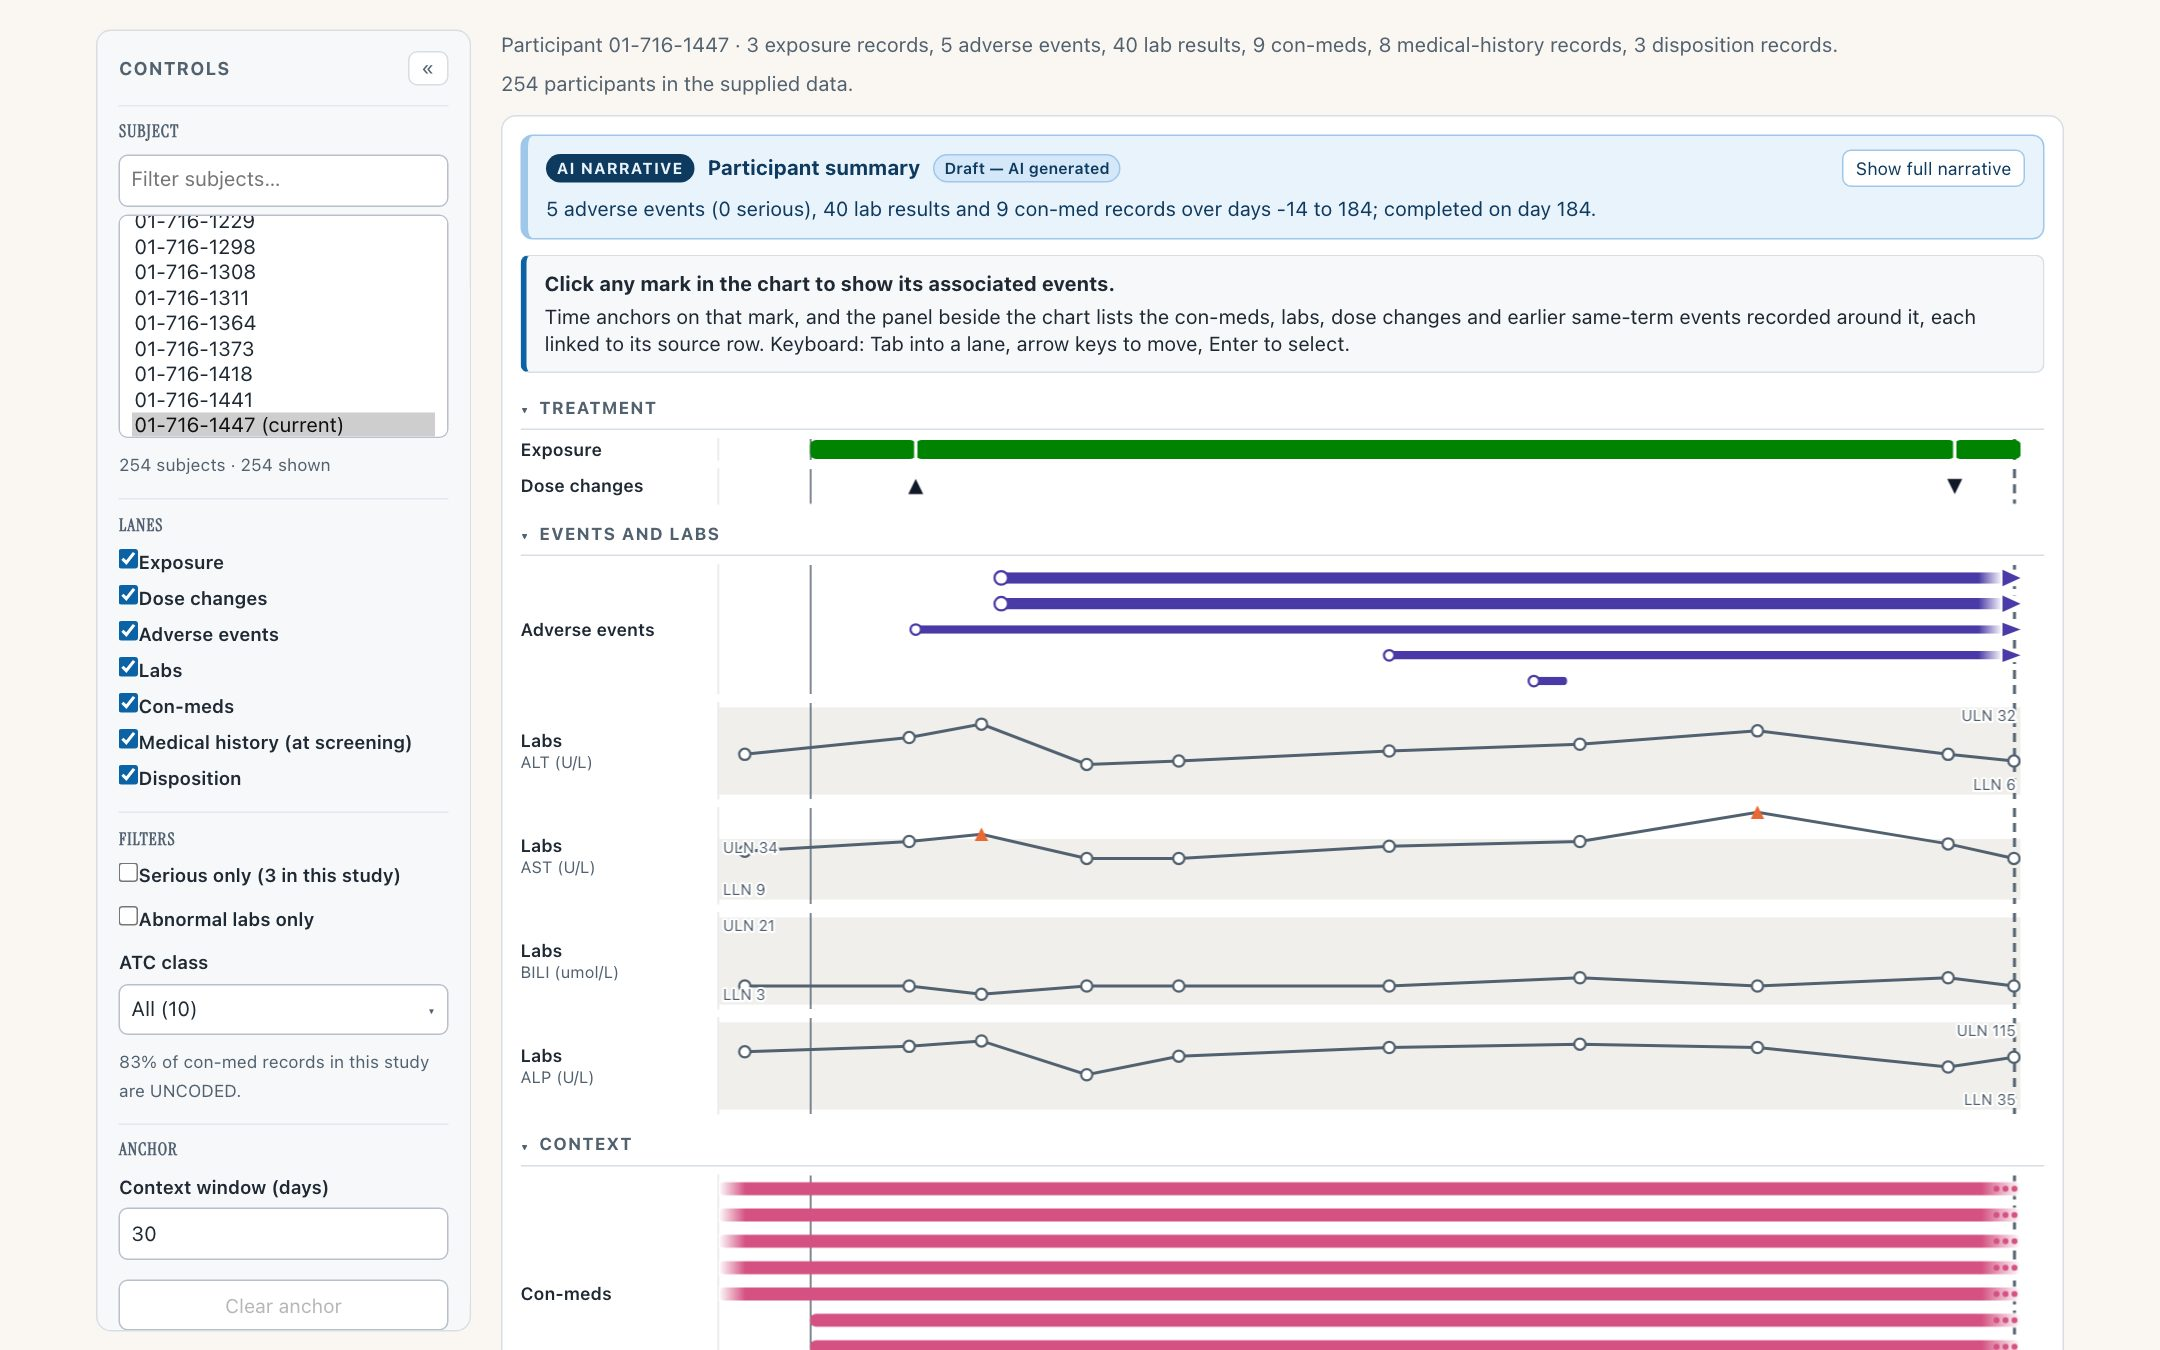
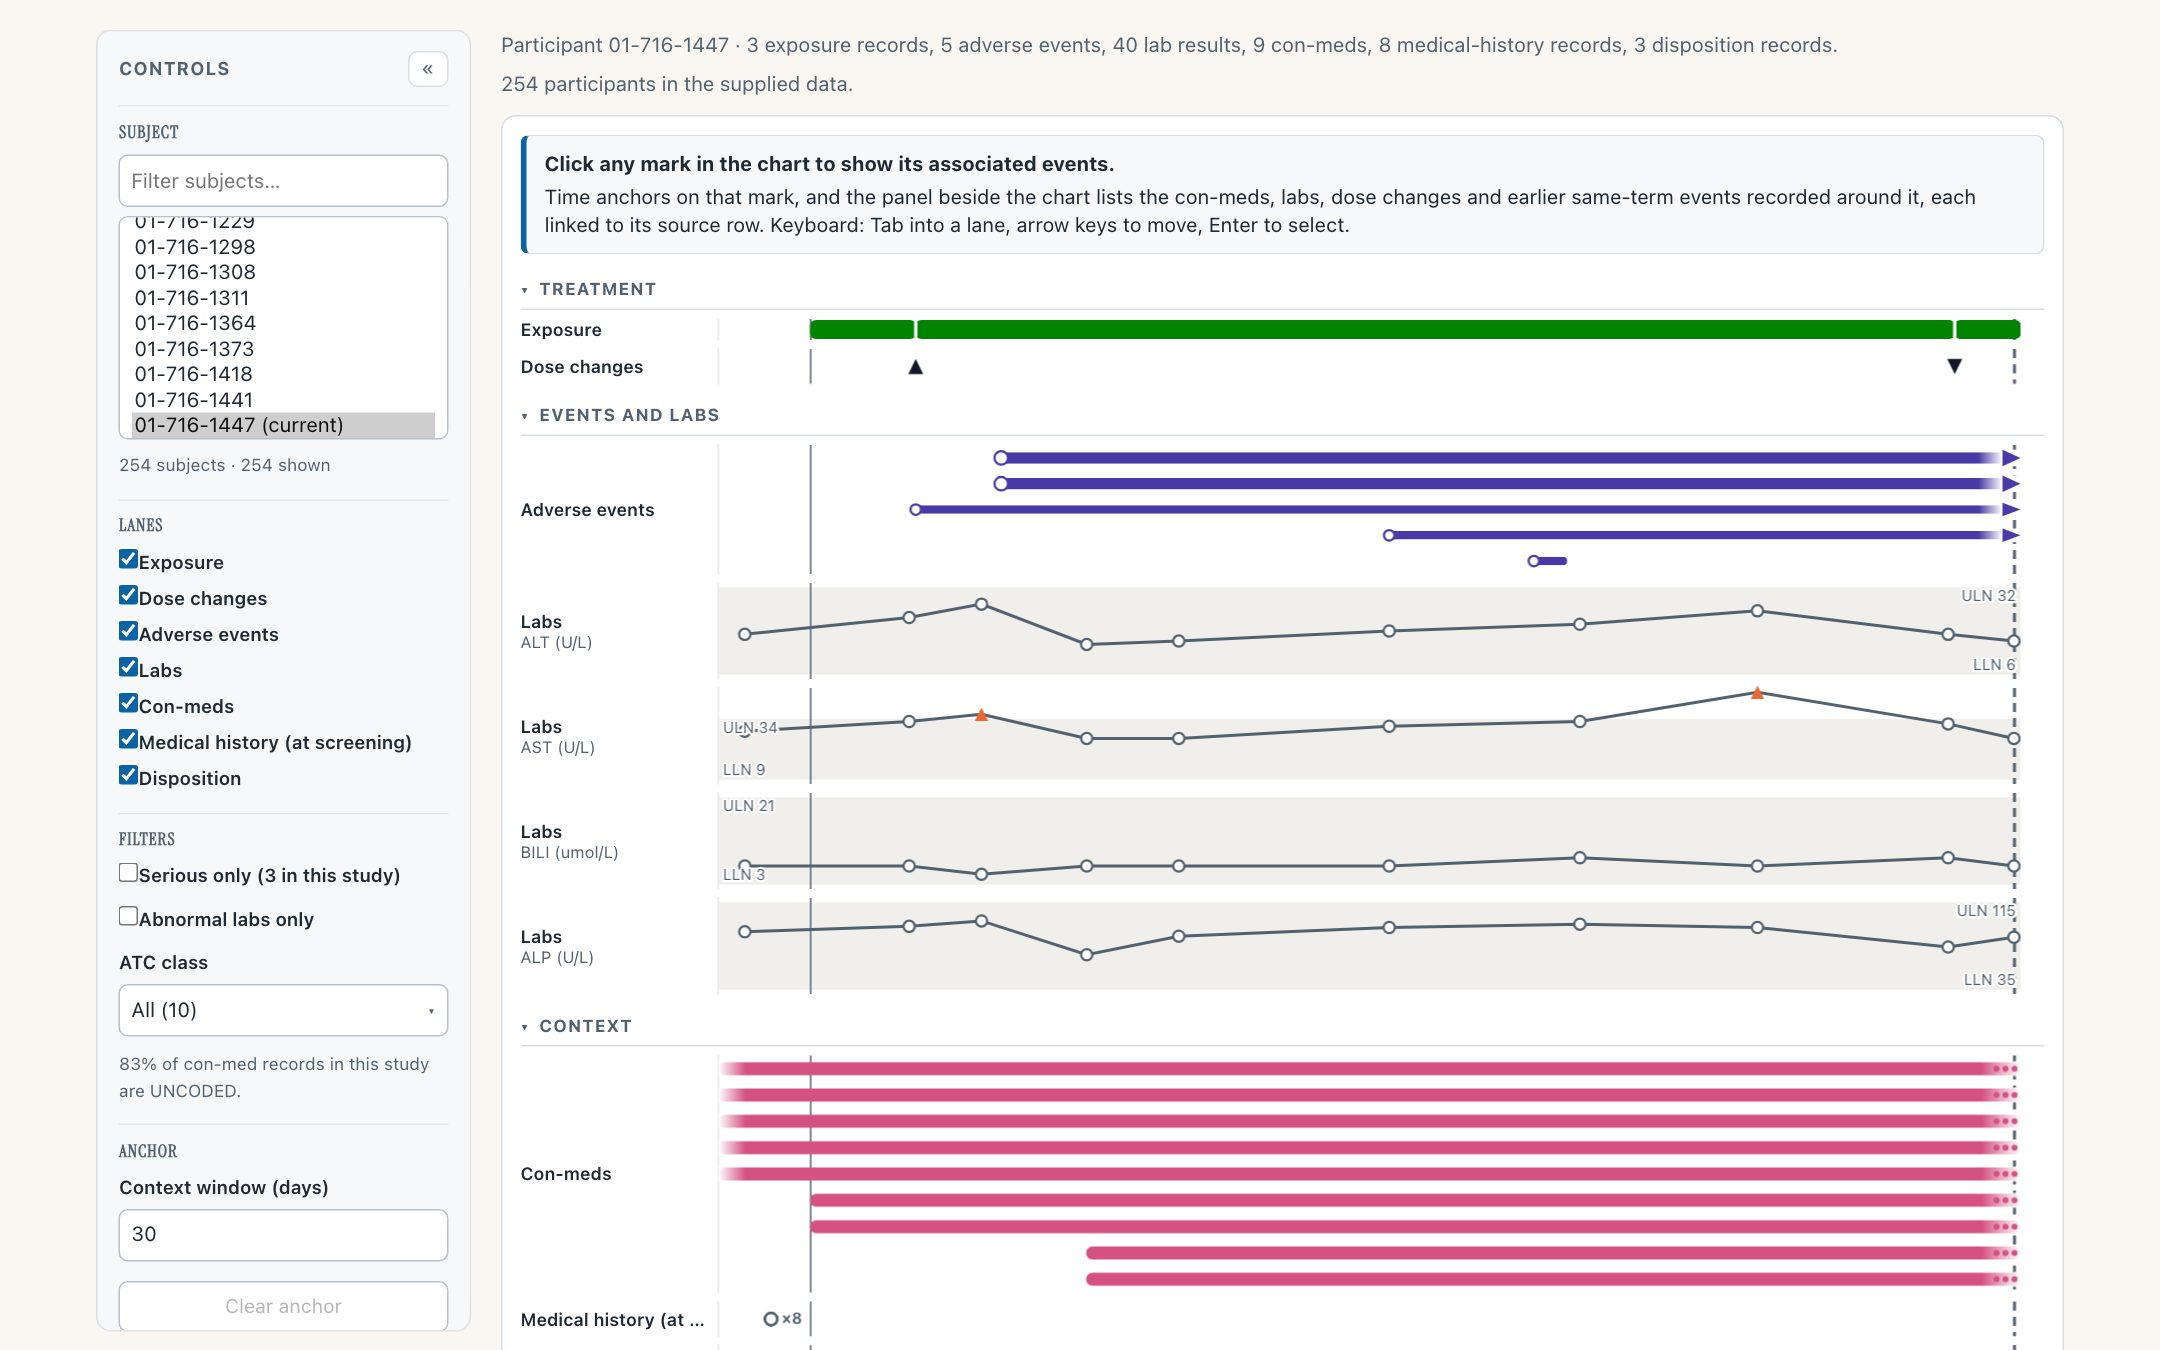
v1.8.0 demo: the narrative layer is out of the release
@jwildfire took the Patient Journey Explorer's AI narrative layer out of
safety.viz v1.8.0 after its reviews (safety.viz#176, #178). The page shows
the chart as a prototype without it, says where the layer went, states the
new test counts (2,100 unit, 344 browser), and every still is re-captured
from the dev site at 001ce91.

diff --git a/reports/sv-v1.8-demo/index.html b/reports/sv-v1.8-demo/index.html
@@ -3,7 +3,7 @@
 <meta charset="utf-8">
 <meta name="viewport" content="width=device-width, initial-scale=1">
 <title>safety.viz v1.8.0 — annotated demo</title>
-<meta name="description" content="What v1.8.0 adds, shown on the live site: a demo app that loads your own study and maps its columns in the browser, nine long-standing requests on the existing charts, and a prototype of the Patient Journey Explorer with drafted narratives.">
+<meta name="description" content="What v1.8.0 adds, shown on the live site: a demo app that loads your own study and maps its columns in the browser, nine long-standing requests on the existing charts, and a prototype of the Patient Journey Explorer.">
 <style>
 :root{
   /* Paper matched to the dev site's own background so the captures sit flush
@@ -150,8 +150,8 @@ footer a{color:var(--mute);border-bottom-color:var(--rule2)}
   <p class="lede">safety.viz becomes something you can use on your own study. A demo app puts every chart on one study, says which ones your data can feed, and lets you load your own files and map their columns, all in the browser. Nine requests from the people who used the original renderers land on the existing charts. And a prototype of a fourteenth chart follows one participant through a trial; a prototype is not ready for production, so it is on the docs site only. Every capture below was taken from the live dev site, which is the release-candidate build.</p>
   <p class="facts">
     <span><b>13</b> charts in <b>1</b> demo app, <b>1</b> prototype</span>
-    <span><b>2,176</b> unit + <b>350</b> browser tests</span>
-    <span>reviewed in three parts: <b>22</b> findings fixed, <b>12</b> filed</span>
+    <span><b>2,100</b> unit + <b>344</b> browser tests</span>
+    <span>reviewed in three parts: <b>22</b> findings fixed, <b>5</b> filed, the narrative layer taken out</span>
     <span>nothing leaves the browser: asserted by test</span>
     <span>promotes <b>dev → main</b> via <a href="https://github.com/jwildfire/safety.viz/pull/158">sv#158</a></span>
   </p>
@@ -160,7 +160,7 @@ footer a{color:var(--mute);border-bottom-color:var(--rule2)}
 <nav class="toc" aria-label="Contents">
   <a href="#app"><span class="ref">hub#352</span><span class="t">The demo app</span><span class="s">Every chart on one study, and what your data supports</span></a>
   <a href="#load"><span class="ref">hub#352</span><span class="t">Load your own study</span><span class="s">Drop files, correct the mapping, redraw</span></a>
-  <a href="#journey"><span class="ref">hub#349 · #351</span><span class="t">Patient Journey Explorer</span><span class="s">One participant, one study-day axis, a drafted narrative</span></a>
+  <a href="#journey"><span class="ref">hub#349</span><span class="t">Patient Journey Explorer</span><span class="s">One participant, one study-day axis: a prototype</span></a>
   <a href="#legacy"><span class="ref">sv#136</span><span class="t">Nine old requests</span><span class="s">Asked for by the original renderers’ users</span></a>
 </nav>
 
@@ -268,29 +268,28 @@ footer a{color:var(--mute);border-bottom-color:var(--rule2)}
   </div>
 </section>
 
-<div class="cut"><span>sv#142, #146 <em>· hub#349, #351</em></span></div><section id="journey">
+<div class="cut"><span>sv#142, #176 <em>· hub#349</em></span></div><section id="journey">
   <div class="hd"><h2>Patient Journey Explorer</h2><span class="tag exp">Prototype</span></div>
-  <p class="what">A prototype of a fourteenth chart, and the first that looks at one participant and not across them: exposure, dose changes, adverse events, labs, concomitant medications, medical history and disposition as stacked lanes on one study-day axis. Clicking any mark anchors time on it and lists what was recorded around it. The chart can also draft a narrative of what the record shows, every sentence carrying the rows it came from, marked as a draft until a reviewer accepts it.</p>
+  <p class="what">A prototype of a fourteenth chart, and the first that looks at one participant and not across them: exposure, dose changes, adverse events, labs, concomitant medications, medical history and disposition as stacked lanes on one study-day axis. Clicking any mark anchors time on it and lists what was recorded around it.</p>
 
   <div class="note">
     <p class="lbl">Not counted a finished chart</p>
     <ul class="list" style="margin-top:0">
       <li>The review of this release found five cases where the chart misdraws or drops part of a record, among them false dose changes when two drugs are given over the same days, and a record far to the left of the axis that is counted as drawn but cannot be seen (<a href="https://github.com/jwildfire/safety.viz/issues/167">safety.viz#167</a>).</li>
-      <li>It found seven defects in the narrative layer, among them that a draft can cite another participant’s rows and pass validation (<a href="https://github.com/jwildfire/safety.viz/issues/168">safety.viz#168</a>).</li>
+      <li>The AI narrative layer that sat on top of this chart is not in the release. The reviews found it could cite another participant’s rows and pass its own checks, so it was taken out; its code is kept on a branch and its findings are filed (<a href="https://github.com/jwildfire/safety.viz/issues/168">safety.viz#168</a>, <a href="https://github.com/jwildfire/safety.viz/issues/176">safety.viz#176</a>).</li>
       <li>So it ships as a prototype: on the docs site, outside the demo app and the standard domain set, and its two requirements stay open.</li>
     </ul>
   </div>
 
   <figure>
-    <div class="frame"><img src="media/pje.jpg" alt="The Patient Journey Explorer for one participant: an AI narrative summary card marked Draft, AI generated, above lanes for exposure, dose changes, adverse events, four lab tests with reference bands, and concomitant medications, with a subject picker and lane and filter controls on the left." loading="lazy" width="1440" height="900"></div>
-    <p class="cap">One participant’s course, with the drafted summary above the lanes. The summary on the site comes from a built-in stub that writes its sentences from the participant’s own rows; a host supplies a model.</p>
+    <div class="frame"><img src="media/pje.jpg" alt="The Patient Journey Explorer for one participant: lanes for exposure, dose changes, adverse events, four lab tests with reference bands, and concomitant medications, with a subject picker and lane and filter controls on the left." loading="lazy" width="1440" height="900"></div>
+    <p class="cap">One participant’s course on one study-day axis. Click any event and the panel beside the chart lists what was recorded around it, each item linked to its source row.</p>
   </figure>
 
   <div class="strip">
     <div class="why">
       <p class="lbl">Why it matters</p>
       <p>Reviewing a single participant usually means opening five listings and lining the days up by eye. This puts them on one axis, and makes the question “what else was happening then” one click.</p>
-      <p>The narrative layer is the program’s first AI feature. Its rules are the product: grounded in the rows on screen, cited sentence by sentence, never published without a reviewer’s accept.</p>
     </div>
     <div class="try">
       <p class="lbl">Try it</p>
@@ -298,7 +297,7 @@ footer a{color:var(--mute);border-bottom-color:var(--rule2)}
       <ol>
         <li>Pick a participant from the list on the left.</li>
         <li>Click an adverse-event bar: the panel beside the chart lists the labs, medications and dose changes around it.</li>
-        <li>Choose Show full narrative, and click a citation to see the row it points to.</li>
+        <li>Click an item in the panel: it opens the source row it came from.</li>
         <li>Read the <a href="https://jwildfire.github.io/safety.viz/dev/patient-journey-explorer/evidence.html">evidence page</a>: each requirement row traces to a named test.</li>
       </ol>
     </div>
@@ -358,6 +357,7 @@ footer a{color:var(--mute);border-bottom-color:var(--rule2)}
         <li>Detecting the standard, not only the domain, of a file.</li>
         <li>A demo study inlined in the single file, and a size budget for it.</li>
         <li>The Patient Journey Explorer as a finished chart: it is a prototype, with its review findings filed.</li>
+        <li>AI narratives on the Patient Journey Explorer: taken out before release, kept on a branch.</li>
         <li>Several files in one domain, such as labs and vitals delivered apart: a second file takes the domain and the first is kept, set aside (<a href="https://github.com/jwildfire/obot.roadmap/issues/365">hub#365</a>).</li>
       </ul>
     </div>
@@ -373,7 +373,7 @@ footer a{color:var(--mute);border-bottom-color:var(--rule2)}
 </section>
 
 <footer>
-  <p>Captures taken 2026-10-02 with Playwright against the live dev deploy of safety.viz, the release-candidate build. Requirements: the basic app (<a href="https://github.com/jwildfire/obot.roadmap/issues/352">hub#352</a>), the standard domain set (<a href="https://github.com/jwildfire/obot.roadmap/issues/325">hub#325</a>), and, as a prototype whose requirements stay open, the Patient Journey Explorer (<a href="https://github.com/jwildfire/obot.roadmap/issues/349">hub#349</a>) and its narratives (<a href="https://github.com/jwildfire/obot.roadmap/issues/351">hub#351</a>).</p>
+  <p>Captures taken 2026-10-02 with Playwright against the live dev deploy of safety.viz, the release-candidate build. Requirements: the basic app (<a href="https://github.com/jwildfire/obot.roadmap/issues/352">hub#352</a>), the standard domain set (<a href="https://github.com/jwildfire/obot.roadmap/issues/325">hub#325</a>), and, as a prototype whose requirement stays open, the Patient Journey Explorer (<a href="https://github.com/jwildfire/obot.roadmap/issues/349">hub#349</a>). Its narrative layer (<a href="https://github.com/jwildfire/obot.roadmap/issues/351">hub#351</a>) is not in this release.</p>
   <p style="margin-top:12px">This page was drafted by Claude Code using Opus 5.5.</p>
 </footer>
 

diff --git a/reports/sv-v1.8-demo/README.md b/reports/sv-v1.8-demo/README.md
@@ -1,9 +1,9 @@
 # safety.viz v1.8.0 — annotated demo
 
-Walkthrough of what v1.8.0 adds, built as the review surface for the v1.8.0 release-candidate PR (dev → main, safety.viz [#158](https://github.com/jwildfire/safety.viz/pull/158)). Captures taken 2026-10-02 with Playwright against the live dev deploy of safety.viz at commit `b94f48d`, the build the release candidate promotes: after the Data view gained its sidebar, Reset and demo studies (safety.viz [#160](https://github.com/jwildfire/safety.viz/pull/160)) and after the release review's fixes, which took the Patient Journey Explorer out of the demo app as a prototype (safety.viz [#171](https://github.com/jwildfire/safety.viz/pull/171)). The sections cover:
+Walkthrough of what v1.8.0 adds, built as the review surface for the v1.8.0 release-candidate PR (dev → main, safety.viz [#158](https://github.com/jwildfire/safety.viz/pull/158)). Captures taken 2026-10-02 with Playwright against the live dev deploy of safety.viz at commit `001ce91`, the build the release candidate promotes: after the Data view gained its sidebar, Reset and demo studies (safety.viz [#160](https://github.com/jwildfire/safety.viz/pull/160)) and after the release review's fixes, which took the Patient Journey Explorer out of the demo app as a prototype (safety.viz [#171](https://github.com/jwildfire/safety.viz/pull/171)). The sections cover:
 
 - the demo app and loading your own study (hub [#352](https://github.com/jwildfire/obot.roadmap/issues/352), on the standard domain set of hub [#325](https://github.com/jwildfire/obot.roadmap/issues/325); safety.viz [#155](https://github.com/jwildfire/safety.viz/pull/155), [#160](https://github.com/jwildfire/safety.viz/pull/160));
-- the Patient Journey Explorer and its narratives, as a prototype whose two requirements stay open (hub [#349](https://github.com/jwildfire/obot.roadmap/issues/349), [#351](https://github.com/jwildfire/obot.roadmap/issues/351); review findings safety.viz [#167](https://github.com/jwildfire/safety.viz/issues/167), [#168](https://github.com/jwildfire/safety.viz/issues/168));
+- the Patient Journey Explorer, as a prototype whose requirement stays open (hub [#349](https://github.com/jwildfire/obot.roadmap/issues/349); review findings safety.viz [#167](https://github.com/jwildfire/safety.viz/issues/167)). Its AI narrative layer (hub [#351](https://github.com/jwildfire/obot.roadmap/issues/351)) was taken out of the release (safety.viz [#176](https://github.com/jwildfire/safety.viz/issues/176)) and is kept on the branch `parked/pje-narratives`;
 - the nine legacy-tracker requests (safety.viz [#136](https://github.com/jwildfire/safety.viz/issues/136)).
 
 The "load your own study" captures use the renamed-column study committed in safety.viz under `tests/e2e/fixtures/app/`, loaded through the page's own file input after Reset clears the pilot demo study, with six mapping rows set by hand. The single-file capture is the file served at `dev/demo/safety.viz-app.html`, saved and opened from disk with the network off.
